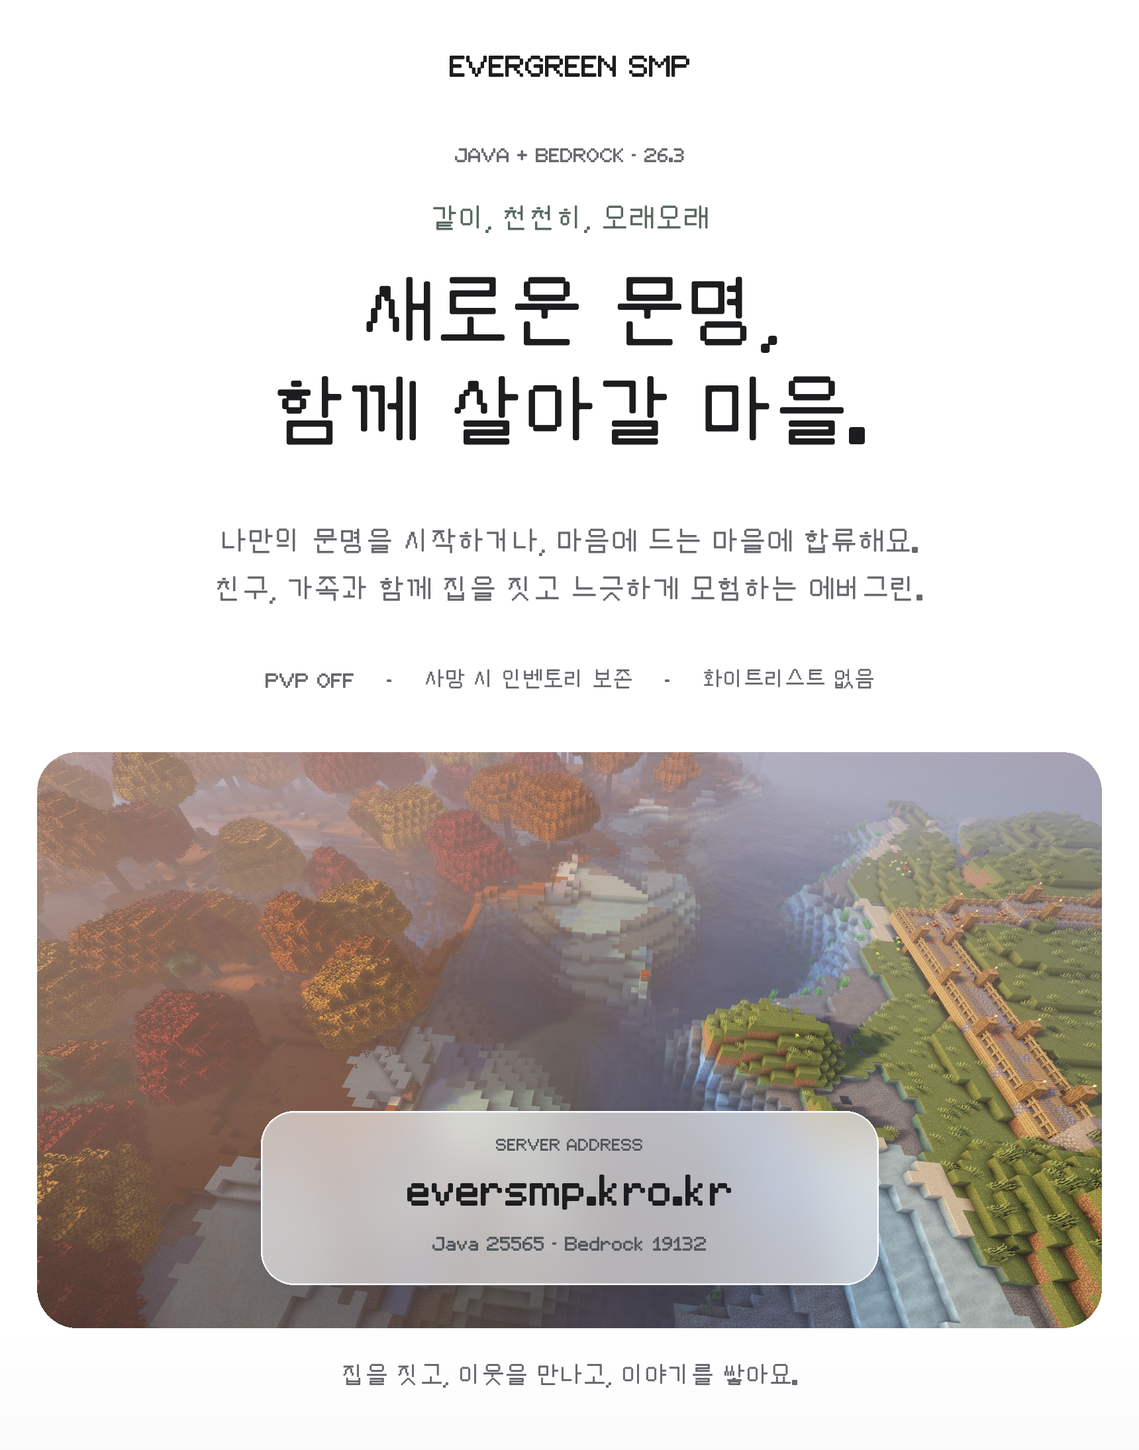
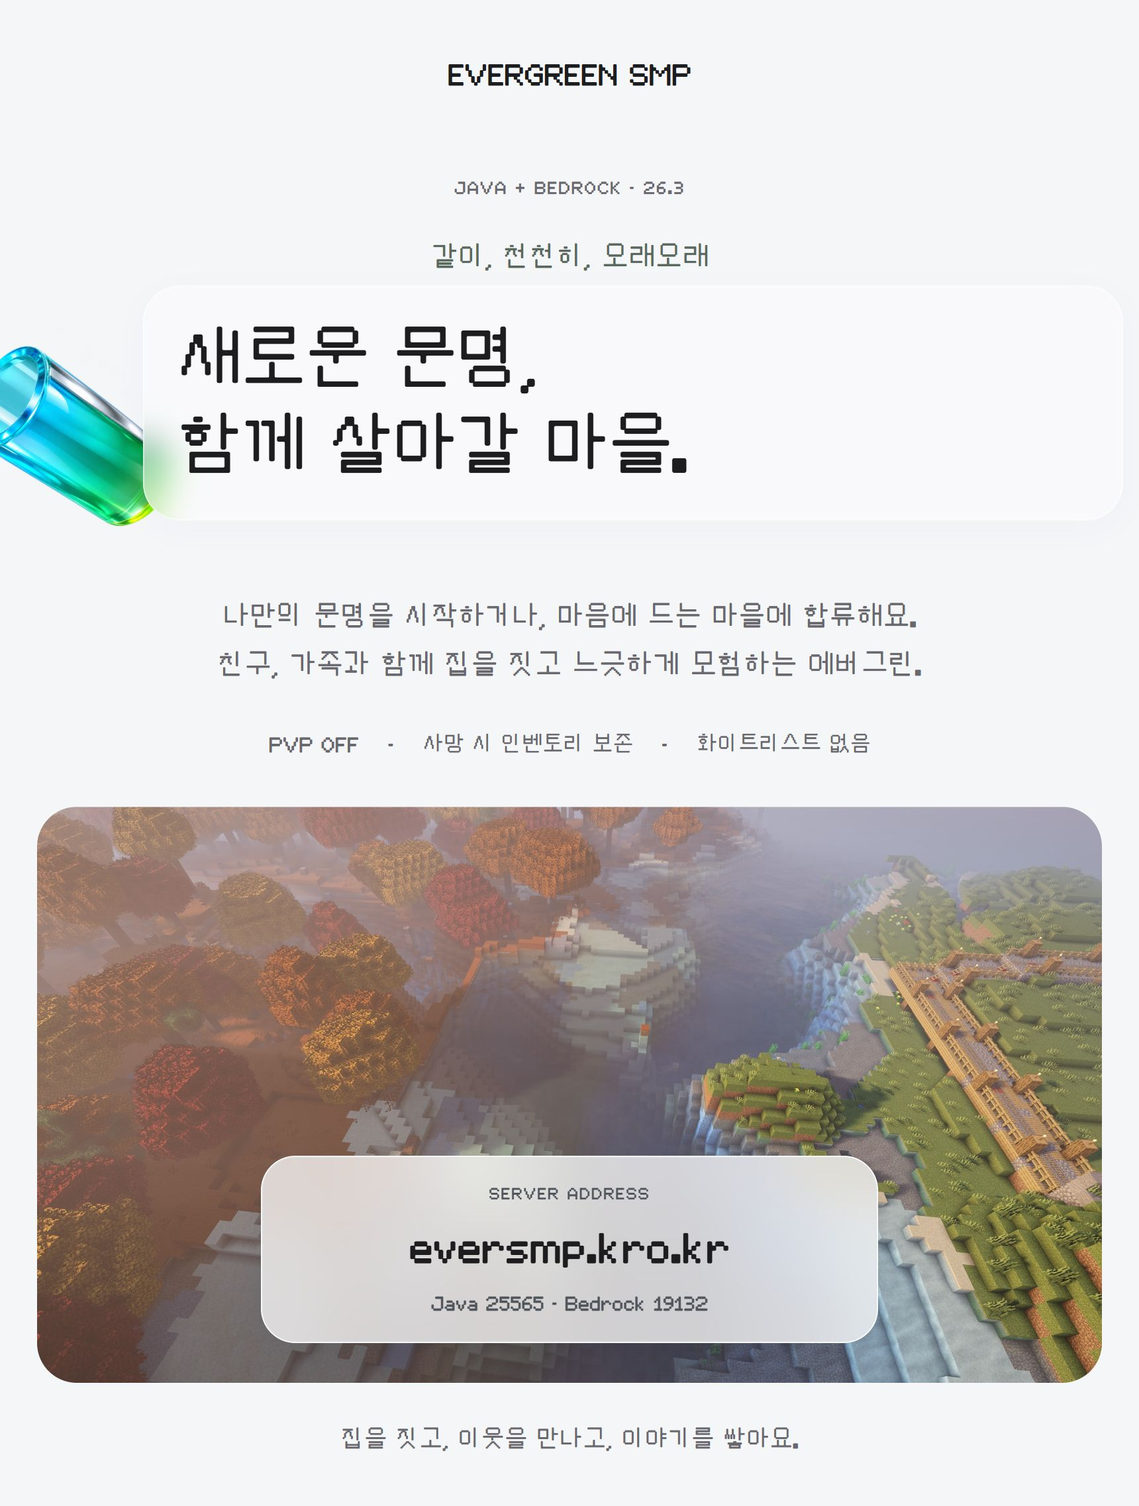
Refresh promo images and glass scroll motion

diff --git a/index.html b/index.html
@@ -366,7 +366,8 @@
     <script src="presence-config.js?v=20261016-live1" defer></script>
     <script src="presence.js?v=20261017-faces1" defer></script>
     <link rel="stylesheet" href="evergreen-liquid.css?v=20261118-sprout2" />
-    <link rel="stylesheet" href="evergreen-geometry.css?v=20261118-geometry1" />
+    <link rel="stylesheet" href="evergreen-geometry.css?v=20261118-geometry2" />
+    <script src="evergreen-geometry.js?v=20261118-geometry2" defer></script>
   </head>
   <body class="evergreen-liquid liquid-home">
     <header class="topbar">
@@ -428,8 +429,7 @@
         </figure>
       </section>
 
-      <section class="promo-video geometry-section" id="promo-video" aria-labelledby="promo-video-title">
-        <img class="geometry-side-art" data-side="right" src="evergreen-geometry-ring.png?v=20261118-geometry1" width="1254" height="1254" alt="" aria-hidden="true" loading="lazy" decoding="async" draggable="false" />
+      <section class="promo-video" id="promo-video" aria-labelledby="promo-video-title">
         <div class="promo-video-heading">
           <div>
             <p class="promo-video-kicker">WATCH EVERGREEN</p>
@@ -485,8 +485,7 @@
         </div>
       </section>
 
-      <section class="section intro geometry-section" aria-labelledby="intro-title">
-        <img class="geometry-side-art" data-side="left" src="evergreen-geometry-fluted.png?v=20261118-geometry1" width="1254" height="1254" alt="" aria-hidden="true" loading="lazy" decoding="async" draggable="false" />
+      <section class="section intro" aria-labelledby="intro-title">
         <div class="section-heading">
           <p class="section-number">01 / ABOUT</p>
           <div class="guide-title-row">
@@ -536,8 +535,7 @@
         </div>
       </section>
 
-      <section class="section rules geometry-section" aria-labelledby="rules-title">
-        <img class="geometry-side-art" data-side="right" src="evergreen-geometry-cone.png?v=20261118-geometry1" width="1254" height="1254" alt="" aria-hidden="true" loading="lazy" decoding="async" draggable="false" />
+      <section class="section rules" aria-labelledby="rules-title">
         <div class="section-heading">
           <p class="section-number">02 / RULES</p>
           <div class="guide-title-row">
@@ -554,7 +552,7 @@
       </section>
 
       <section class="claim-guide geometry-section" id="claim" aria-labelledby="claim-title">
-        <img class="geometry-side-art" data-side="left" src="evergreen-geometry-ring.png?v=20261118-geometry1" width="1254" height="1254" alt="" aria-hidden="true" loading="lazy" decoding="async" draggable="false" />
+        <img class="geometry-side-art" data-side="right" src="evergreen-geometry-ring.png?v=20261118-geometry1" width="1254" height="1254" alt="" aria-hidden="true" loading="lazy" decoding="async" draggable="false" />
         <div class="claim-heading">
           <p class="section-number">03 / LAND CLAIM</p>
           <div class="guide-title-row">
@@ -591,8 +589,7 @@
         <p class="claim-note">선택 영역은 최소 5×5이며, 현재 1인당 보호구역의 가로×세로 면적 합계가 500,000블록까지 가능합니다.</p>
       </section>
 
-      <section class="claim-guide town-guide geometry-section" id="towns" aria-labelledby="town-title">
-        <img class="geometry-side-art" data-side="right" src="evergreen-geometry-cylinder.png?v=20261118-geometry1" width="1254" height="1254" alt="" aria-hidden="true" loading="lazy" decoding="async" draggable="false" />
+      <section class="claim-guide town-guide" id="towns" aria-labelledby="town-title">
         <div class="claim-heading">
           <p class="section-number">04 / YOUR TOWN</p>
           <div class="guide-title-row">
@@ -704,8 +701,7 @@
         <p class="claim-note">새 기본 주민 거래창에서 광물은 1그린권으로 살 수 있어요. 5·10그린권은 거래 목록 아래에서 1그린권으로 바꿀 수 있어요. 환전소를 옮기려면 이장이 기존 주민을 제거한 뒤 새 위치에서 소환하면 돼요. 방문한 마을에서는 주민 거래 권한이 있어야 환전할 수 있어요.</p>
       </section>
 
-      <section class="social-guide geometry-section" id="friends" aria-labelledby="social-title">
-        <img class="geometry-side-art" data-side="right" src="evergreen-geometry-cone.png?v=20261118-geometry1" width="1254" height="1254" alt="" aria-hidden="true" loading="lazy" decoding="async" draggable="false" />
+      <section class="social-guide" id="friends" aria-labelledby="social-title">
         <div class="social-heading">
           <p class="section-number">05 / MENU &amp; FRIENDS</p>
           <div class="guide-title-row">
@@ -761,7 +757,7 @@
       </section>
 
       <section class="client-downloads geometry-section" id="downloads" aria-labelledby="downloads-title">
-        <img class="geometry-side-art" data-side="left" src="evergreen-geometry-ring.png?v=20261118-geometry1" width="1254" height="1254" alt="" aria-hidden="true" loading="lazy" decoding="async" draggable="false" />
+        <img class="geometry-side-art" data-side="right" src="evergreen-geometry-cone.png?v=20261118-geometry1" width="1254" height="1254" alt="" aria-hidden="true" loading="lazy" decoding="async" draggable="false" />
         <div class="client-download-heading">
           <p class="section-number">EVERGREEN CLIENT · 1.5.0</p>
           <h2 id="downloads-title">에버그린을,<br />조금 더 편하게.</h2>
@@ -811,8 +807,7 @@
         </aside>
       </section>
 
-      <section class="join geometry-section" id="join" aria-labelledby="join-title">
-        <img class="geometry-side-art" data-side="right" src="evergreen-geometry-cylinder.png?v=20261118-geometry1" width="1254" height="1254" alt="" aria-hidden="true" loading="lazy" decoding="async" draggable="false" />
+      <section class="join" id="join" aria-labelledby="join-title">
         <div class="join-heading">
           <p class="section-number">06 / JOIN NOW</p>
           <div class="guide-title-row">

diff --git a/EVERGREEN-Hanmapo-Geometry.html b/EVERGREEN-Hanmapo-Geometry.html
@@ -1,0 +1,22 @@
+<!doctype html><html lang="ko"><head><meta charset="utf-8"><meta name="viewport" content="width=device-width,initial-scale=1"><title>EVERGREEN SMP — 유리 도형 한마포 소개 미리보기</title><style>html,body{margin:0;padding:0;background:#f5f6f8}img,video,iframe{vertical-align:middle}*{box-sizing:border-box}a:focus-visible{outline:3px solid #0071e3;outline-offset:4px}</style></head><body><div style="width:100%;max-width:860px;margin:0 auto;background:#f5f6f8;text-align:center;">
+  <img src="https://hajun2494-spec.github.io/kids-smp-homepage/evergreen-geometry-hanmapo-top-20261118.jpg" alt="EVERGREEN SMP — 새로운 문명, 함께 살아갈 마을. Java와 Bedrock에서 함께하는 야생 서버." width="860" style="display:block;width:100%;max-width:100%;height:auto;margin:0;border:0;" />
+
+  <div style="padding:0 0 28px;margin:0;text-align:center;">
+    <span class="fr-video fr-dvb" contenteditable="false" style="display:block;width:860px !important;max-width:100% !important;margin:0 auto;overflow:hidden;border-radius:22px;background:#101214;box-shadow:0 14px 40px rgba(20,35,55,.12);">
+      <iframe src="https://www.youtube.com/embed/LLBBFBi3uPo?rel=0" width="860" height="484" title="EVERGREEN SMP 새 홍보영상" loading="lazy" allow="accelerometer; clipboard-write; encrypted-media; gyroscope; picture-in-picture; web-share" referrerpolicy="strict-origin-when-cross-origin" allowfullscreen="allowfullscreen" style="display:block;width:860px !important;max-width:100% !important;height:auto !important;aspect-ratio:16/9;margin:0;border:0;border-radius:22px;"></iframe>
+    </span>
+    <p style="margin:19px 0 24px;text-align:center;line-height:1.6;">
+      <a href="https://youtu.be/LLBBFBi3uPo" target="_blank" rel="noopener noreferrer" style="display:inline-block;max-width:100%;text-decoration:none;"><img src="https://hajun2494-spec.github.io/kids-smp-homepage/evergreen-liquid-label-watch.png" alt="새 홍보영상 크게 보기 ↗" width="151" height="16" style="display:inline-block;width:151px;max-width:100%;height:auto;margin:0;border:0;vertical-align:middle;" /></a>
+    </p>
+    <a href="https://hajun2494-spec.github.io/kids-smp-homepage/#join" target="_blank" rel="noopener noreferrer" style="display:inline-block;box-sizing:border-box;max-width:100%;padding:18px 26px;margin:6px;border:1px solid #0071e3;border-radius:28px;background:#0071e3;text-decoration:none;box-shadow:0 4px 16px rgba(20,35,55,.06);"><img src="https://hajun2494-spec.github.io/kids-smp-homepage/evergreen-liquid-label-home.png" alt="홈페이지에서 시작하기 ↗" width="193" height="19.5" style="display:inline-block;width:193px;max-width:100%;height:auto;margin:0;border:0;vertical-align:middle;" /></a>
+  </div>
+
+  <img src="https://hajun2494-spec.github.io/kids-smp-homepage/evergreen-geometry-hanmapo-body-20261118.jpg" alt="에버그린 SMP 소개와 운영 시간, 규칙, 토지 보호, 마을 만들기, 그린 환전, 친구 기능, 전용 런처와 모드 안내." width="860" style="display:block;width:100%;max-width:100%;height:auto;margin:0;border:0;" />
+
+  <div style="padding:8px 16px 44px;text-align:center;">
+    <p style="margin:0 0 8px;text-align:center;"><a href="https://hajun2494-spec.github.io/kids-smp-homepage/#join" target="_blank" rel="noopener noreferrer" style="display:inline-block;box-sizing:border-box;max-width:100%;padding:18px 26px;margin:6px;border:1px solid #0071e3;border-radius:28px;background:#0071e3;text-decoration:none;box-shadow:0 4px 16px rgba(20,35,55,.06);"><img src="https://hajun2494-spec.github.io/kids-smp-homepage/evergreen-liquid-label-home.png" alt="홈페이지에서 시작하기 ↗" width="193" height="19.5" style="display:inline-block;width:193px;max-width:100%;height:auto;margin:0;border:0;vertical-align:middle;" /></a></p>
+    <p style="margin:0;text-align:center;"><a href="https://hajun2494-spec.github.io/kids-smp-homepage/#downloads" target="_blank" rel="noopener noreferrer" style="display:inline-block;box-sizing:border-box;max-width:100%;padding:18px 26px;margin:6px;border:1px solid #e0e3e8;border-radius:28px;background:#ffffff;text-decoration:none;box-shadow:0 4px 16px rgba(20,35,55,.06);"><img src="https://hajun2494-spec.github.io/kids-smp-homepage/evergreen-liquid-label-download.png" alt="전용 런처 · 모드 다운로드 ↗" width="216.5" height="19.5" style="display:inline-block;width:216.5px;max-width:100%;height:auto;margin:0;border:0;vertical-align:middle;" /></a>
+    <a href="https://hajun2494-spec.github.io/kids-smp-homepage/map.html" target="_blank" rel="noopener noreferrer" style="display:inline-block;box-sizing:border-box;max-width:100%;padding:18px 26px;margin:6px;border:1px solid #e0e3e8;border-radius:28px;background:#ffffff;text-decoration:none;box-shadow:0 4px 16px rgba(20,35,55,.06);"><img src="https://hajun2494-spec.github.io/kids-smp-homepage/evergreen-liquid-label-map.png" alt="마을 지도 열기 ↗" width="133" height="19.5" style="display:inline-block;width:133px;max-width:100%;height:auto;margin:0;border:0;vertical-align:middle;" /></a></p>
+  </div>
+</div>
+</body></html>

diff --git a/evergreen-geometry.js b/evergreen-geometry.js
@@ -1,0 +1,113 @@
+/* Decorative only: no navigation, player data, downloads, or video behavior. */
+(() => {
+  "use strict";
+  if (!document.body.classList.contains("liquid-home")) return;
+  const images = [...document.querySelectorAll(".geometry-section > .geometry-side-art")];
+  if (!images.length) return;
+  const reducedMotion = window.matchMedia("(prefers-reduced-motion: reduce)");
+  const clamp = (n, low, high) => Math.max(low, Math.min(high, n));
+  const records = images.map(image => {
+    const section = image.closest(".geometry-section");
+    const candidates = [...section.querySelectorAll(
+      "h1, h2, h3, p, summary, .claim-commands > div, .claim-steps > article, .client-download-card"
+    )];
+    const selected = new Set(candidates);
+    const targets = candidates.filter(node => {
+      let parent = node.parentElement;
+      while (parent && parent !== section) {
+        if (selected.has(parent)) return false;
+        parent = parent.parentElement;
+      }
+      return true;
+    }).map(node => ({ node, active: false }));
+    return { image, section, targets, offset: 0, top: 0, left: 0, width: 0, height: 0 };
+  });
+  let frame = 0;
+  let needsMeasure = true;
+  const clear = target => {
+    if (!target.active) return;
+    target.node.classList.remove("geometry-under-art");
+    target.active = false;
+  };
+  function measure(scrollY) {
+    for (const item of records) {
+      const box = item.image.getBoundingClientRect();
+      item.top = box.top + scrollY - item.offset;
+      item.left = box.left;
+      item.width = box.width;
+      item.height = box.height;
+      for (const target of item.targets) {
+        const rect = target.node.getBoundingClientRect();
+        target.left = rect.left;
+        target.top = rect.top + scrollY;
+        target.width = rect.width;
+        target.height = rect.height;
+      }
+    }
+  }
+  function render() {
+    frame = 0;
+    const scrollY = window.scrollY;
+    const viewportHeight = window.innerHeight;
+    const viewportWidth = document.documentElement.clientWidth;
+    if (needsMeasure) { measure(scrollY); needsMeasure = false; }
+    // Cache all geometry during measure; scroll frames only write styles.
+    for (const item of records) {
+      const limit = Math.min(130, item.width * 0.7);
+      const offset = reducedMotion.matches ? 0 : clamp(
+        (scrollY + viewportHeight * 0.5 - item.top - item.height * 0.5) * 0.2,
+        -limit, limit
+      );
+      item.offset = offset;
+      item.image.style.setProperty("--geometry-scroll-y", `${offset.toFixed(2)}px`);
+      const art = {
+        left: Math.max(0, item.left),
+        right: Math.min(viewportWidth, item.left + item.width),
+        top: item.top + offset,
+        bottom: item.top + offset + item.height
+      };
+      const visible = art.bottom >= scrollY && art.top <= scrollY + viewportHeight;
+      for (const target of item.targets) {
+        if (!visible || !target.width || !target.height) { clear(target); continue; }
+        const left = Math.max(art.left, target.left - 8);
+        const right = Math.min(art.right, target.left + target.width + 8);
+        const top = Math.max(art.top, target.top - 6);
+        const bottom = Math.min(art.bottom, target.top + target.height + 6);
+        if (right <= left || bottom <= top) { clear(target); continue; }
+        // The frosted pseudo-element is restricted to this exact overlap rectangle.
+        const style = target.node.style;
+        style.setProperty("--geometry-frost-left", `${(left - target.left).toFixed(2)}px`);
+        style.setProperty("--geometry-frost-top", `${(top - target.top).toFixed(2)}px`);
+        style.setProperty("--geometry-frost-width", `${(right - left).toFixed(2)}px`);
+        style.setProperty("--geometry-frost-height", `${(bottom - top).toFixed(2)}px`);
+        if (!target.active) {
+          target.node.classList.add("geometry-under-art");
+          target.active = true;
+        }
+      }
+    }
+  }
+  function requestFrame(remeasure = false) {
+    needsMeasure ||= remeasure;
+    if (!frame) frame = window.requestAnimationFrame(render);
+  }
+  window.addEventListener("scroll", () => requestFrame(), { passive: true });
+  window.addEventListener("resize", () => requestFrame(true), { passive: true });
+  // Reset transforms before measuring after a motion preference change.
+  reducedMotion.addEventListener("change", () => {
+    for (const item of records) {
+      item.offset = 0;
+      item.image.style.setProperty("--geometry-scroll-y", "0px");
+    }
+    requestFrame(true);
+  });
+  for (const image of images) image.addEventListener("load", () => requestFrame(true), { once: true });
+  if (document.fonts) document.fonts.ready.then(() => requestFrame(true));
+  if ("ResizeObserver" in window) {
+    const observer = new ResizeObserver(() => requestFrame(true));
+    records.forEach(item => observer.observe(item.section));
+    observer.observe(document.querySelector("main#top"));
+  }
+  window.addEventListener("pageshow", () => requestFrame(true), { passive: true });
+  requestFrame(true);
+})();

diff --git a/EVERGREEN-Hanmapo-Liquid.html b/EVERGREEN-Hanmapo-Liquid.html
@@ -1,5 +1,5 @@
-<!doctype html><html lang="ko"><head><meta charset="utf-8"><meta name="viewport" content="width=device-width,initial-scale=1"><title>EVERGREEN SMP — 한마포 소개 미리보기</title><style>html,body{margin:0;padding:0;background:#f5f5f7}img,video,iframe{vertical-align:middle}*{box-sizing:border-box}a:focus-visible{outline:3px solid #0071e3;outline-offset:4px}</style></head><body><div style="width:100%;max-width:860px;margin:0 auto;background:#f5f5f7;text-align:center;">
-  <img src="https://hajun2494-spec.github.io/kids-smp-homepage/evergreen-liquid-hanmapo-top-20261118.jpg" alt="EVERGREEN SMP — 새로운 문명, 함께 살아갈 마을. Java와 Bedrock에서 함께하는 야생 서버." width="860" style="display:block;width:100%;max-width:100%;height:auto;margin:0;border:0;" />
+<!doctype html><html lang="ko"><head><meta charset="utf-8"><meta name="viewport" content="width=device-width,initial-scale=1"><title>EVERGREEN SMP — 유리 도형 한마포 소개 미리보기</title><style>html,body{margin:0;padding:0;background:#f5f6f8}img,video,iframe{vertical-align:middle}*{box-sizing:border-box}a:focus-visible{outline:3px solid #0071e3;outline-offset:4px}</style></head><body><div style="width:100%;max-width:860px;margin:0 auto;background:#f5f6f8;text-align:center;">
+  <img src="https://hajun2494-spec.github.io/kids-smp-homepage/evergreen-geometry-hanmapo-top-20261118.jpg" alt="EVERGREEN SMP — 새로운 문명, 함께 살아갈 마을. Java와 Bedrock에서 함께하는 야생 서버." width="860" style="display:block;width:100%;max-width:100%;height:auto;margin:0;border:0;" />
 
   <div style="padding:0 0 28px;margin:0;text-align:center;">
     <span class="fr-video fr-dvb" contenteditable="false" style="display:block;width:860px !important;max-width:100% !important;margin:0 auto;overflow:hidden;border-radius:22px;background:#101214;box-shadow:0 14px 40px rgba(20,35,55,.12);">
@@ -11,7 +11,7 @@
     <a href="https://hajun2494-spec.github.io/kids-smp-homepage/#join" target="_blank" rel="noopener noreferrer" style="display:inline-block;box-sizing:border-box;max-width:100%;padding:18px 26px;margin:6px;border:1px solid #0071e3;border-radius:28px;background:#0071e3;text-decoration:none;box-shadow:0 4px 16px rgba(20,35,55,.06);"><img src="https://hajun2494-spec.github.io/kids-smp-homepage/evergreen-liquid-label-home.png" alt="홈페이지에서 시작하기 ↗" width="193" height="19.5" style="display:inline-block;width:193px;max-width:100%;height:auto;margin:0;border:0;vertical-align:middle;" /></a>
   </div>
 
-  <img src="https://hajun2494-spec.github.io/kids-smp-homepage/evergreen-liquid-hanmapo-body-20261118.png" alt="에버그린 SMP 소개와 운영 시간, 규칙, 토지 보호, 마을 만들기, 그린 환전, 친구 기능, 전용 런처와 모드 안내." width="860" style="display:block;width:100%;max-width:100%;height:auto;margin:0;border:0;" />
+  <img src="https://hajun2494-spec.github.io/kids-smp-homepage/evergreen-geometry-hanmapo-body-20261118.jpg" alt="에버그린 SMP 소개와 운영 시간, 규칙, 토지 보호, 마을 만들기, 그린 환전, 친구 기능, 전용 런처와 모드 안내." width="860" style="display:block;width:100%;max-width:100%;height:auto;margin:0;border:0;" />
 
   <div style="padding:8px 16px 44px;text-align:center;">
     <p style="margin:0 0 8px;text-align:center;"><a href="https://hajun2494-spec.github.io/kids-smp-homepage/#join" target="_blank" rel="noopener noreferrer" style="display:inline-block;box-sizing:border-box;max-width:100%;padding:18px 26px;margin:6px;border:1px solid #0071e3;border-radius:28px;background:#0071e3;text-decoration:none;box-shadow:0 4px 16px rgba(20,35,55,.06);"><img src="https://hajun2494-spec.github.io/kids-smp-homepage/evergreen-liquid-label-home.png" alt="홈페이지에서 시작하기 ↗" width="193" height="19.5" style="display:inline-block;width:193px;max-width:100%;height:auto;margin:0;border:0;vertical-align:middle;" /></a></p>

diff --git a/evergreen-geometry.css b/evergreen-geometry.css
@@ -1,4 +1,4 @@
-/* Image-generated geometry, with real room outside the reading column. */
+/* Four unique image-generated sculptures, alternating at the viewport edges. */
 .evergreen-liquid {
   --geometry-reading-width: 1080px;
   --geometry-gutter: clamp(220px, 18vw, 350px);
@@ -34,8 +34,10 @@ body.evergreen-liquid { background: #f5f6f8; }
   -webkit-user-drag: none;
   z-index: 0;
 }
-.geometry-side-art[data-side="left"] { right: calc(100% + 10px); left: auto; }
-.geometry-side-art[data-side="right"] { left: calc(100% + 10px); right: auto; }
+/* A centered section starts at (viewport - section) / 2.
+   These offsets put exactly one fifth of each image box outside the viewport. */
+.liquid-home .geometry-side-art[data-side="left"] { left: calc(50% - 50vw - var(--geometry-art-size) / 5); right: auto; }
+.liquid-home .geometry-side-art[data-side="right"] { right: calc(50% - 50vw - var(--geometry-art-size) / 5); left: auto; }
 .liquid-home .hero > .geometry-side-art { top: 142px; }
 .liquid-home .promo-video > .geometry-side-art { top: 90px; }
 .liquid-home .section.rules > .geometry-side-art { top: 64px; }
@@ -72,8 +74,9 @@ body.evergreen-liquid { background: #f5f6f8; }
     margin-bottom: 28px;
     width: var(--geometry-art-size);
   }
-  .liquid-home .geometry-side-art[data-side="left"] { margin-left: 0; margin-right: auto; align-self: flex-start; justify-self: start; }
-  .liquid-home .geometry-side-art[data-side="right"] { margin-left: auto; margin-right: 0; align-self: flex-end; justify-self: end; }
+  /* Keep a full image-height row above the heading; only shift it horizontally. */
+  .liquid-home .geometry-section > .geometry-side-art[data-side="left"] { left: calc(50% - 50vw - var(--geometry-art-size) / 5); right: auto; margin-left: 0; margin-right: auto; align-self: flex-start; justify-self: start; }
+  .liquid-home .geometry-section > .geometry-side-art[data-side="right"] { right: calc(50% - 50vw - var(--geometry-art-size) / 5); left: auto; margin-left: auto; margin-right: 0; align-self: flex-end; justify-self: end; }
   .liquid-home .hero { padding-top: 40px; }
   .liquid-home .hero > .geometry-side-art { margin-bottom: 12px; }
   .liquid-home .section.rules { column-gap: 36px; }
@@ -133,4 +136,33 @@ body.evergreen-liquid { background: #f5f6f8; }
   .geometry-map-art,
   .geometry-broadcast-art { display: none !important; }
   .liquid-home main#top > section { width: 100%; }
+}
+
+/* Motion belongs only to the four homepage sculptures. Text is never filtered. */
+.liquid-home .geometry-side-art {
+  transform: translate3d(0, var(--geometry-scroll-y, 0px), 0);
+  will-change: transform;
+}
+.liquid-home .geometry-under-art {
+  position: relative;
+  isolation: isolate;
+}
+.liquid-home .geometry-under-art::before {
+  content: "";
+  display: block;
+  position: absolute;
+  left: var(--geometry-frost-left);
+  top: var(--geometry-frost-top);
+  width: var(--geometry-frost-width);
+  height: var(--geometry-frost-height);
+  z-index: -1;
+  pointer-events: none;
+  border-radius: 14px;
+  clip-path: inset(0 round 14px);
+  background: rgb(255 255 255 / 18%);
+  -webkit-backdrop-filter: blur(12px);
+  backdrop-filter: blur(12px);
+}
+@media (prefers-reduced-motion: reduce) {
+  .liquid-home .geometry-side-art { transform: none !important; will-change: auto; }
 }
